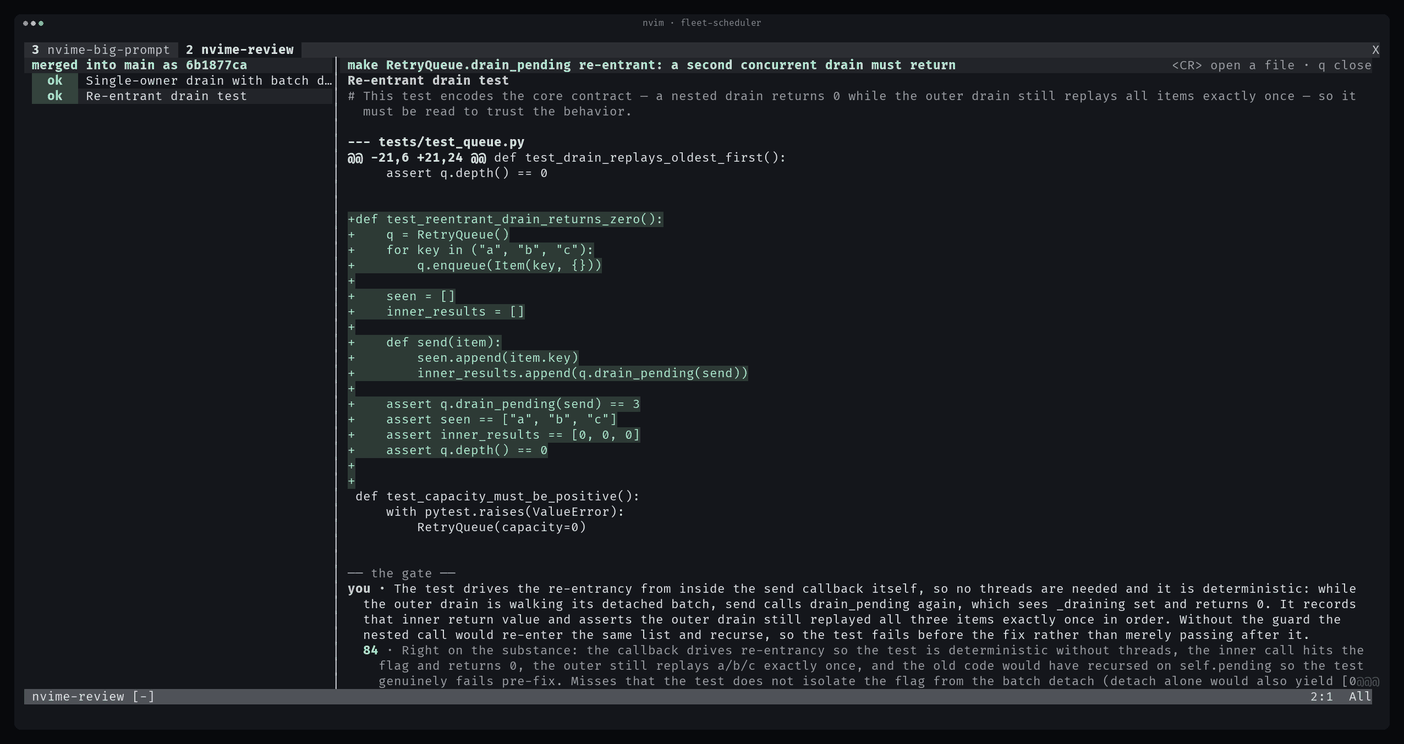
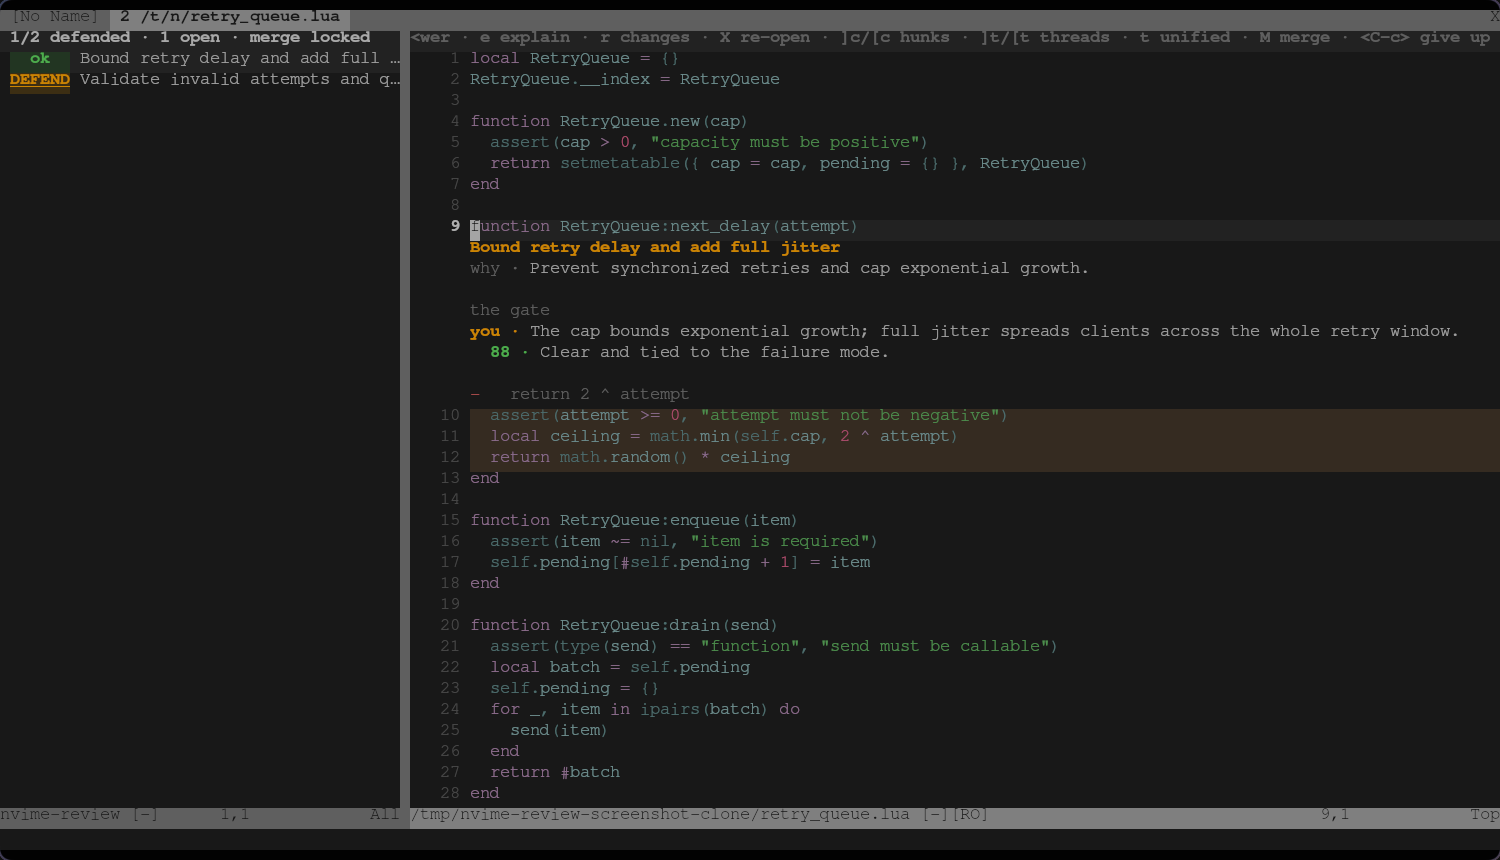
docs: capture the real-file review pane (#21)

diff --git a/README.md b/README.md
@@ -863,13 +863,15 @@ real, and the diff capture and triage fallback run over what it actually wrote.
 
 ### The screenshots
 
-Every image in this README is a real terminal, running the shipped plugin
-against a real repository — captured from `tmux capture-pane` and rendered to
-PNG; nothing is mocked up or drawn. Most are the full loop, driven by the real
-`claude` CLI: the review, the grades and the merge commit in them come from
-one actual big change that was built, defended and landed. The edit shots are
-the real plugin's real rendering fed a scripted instruction rather than a live
-CLI turn. The full set, dark and light, is under [`assets/`](assets/).
+Every image in this README is a real terminal running the shipped plugin and is
+captured from the compositor; nothing is mocked up or drawn. The review pair
+uses a deterministic reviewed-session fixture against a real file so the dark
+and light evidence stays reproducible while still exercising the shipped
+thread, review-buffer, annotation and palette paths. The remaining Big Change
+images came from an actual change built, defended and landed through the local
+`claude` CLI; edit uses a scripted instruction through the real rendering path.
+The full set is under [`assets/`](assets/), and
+`tests/e2e/review-buffers.sh` drives the real CLI proof for the review buffer.
 
 ## Layout
 
